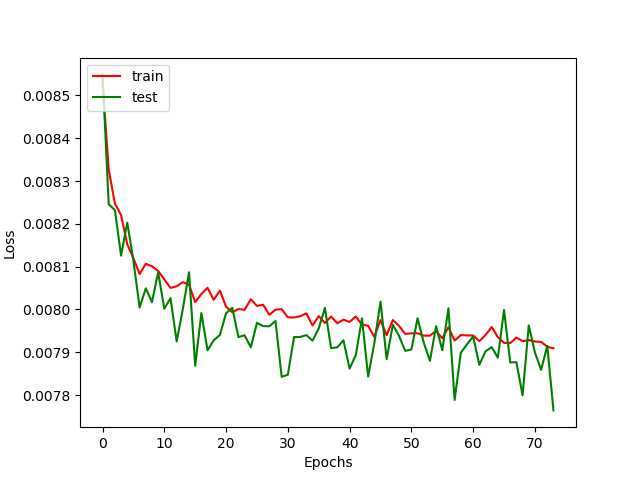
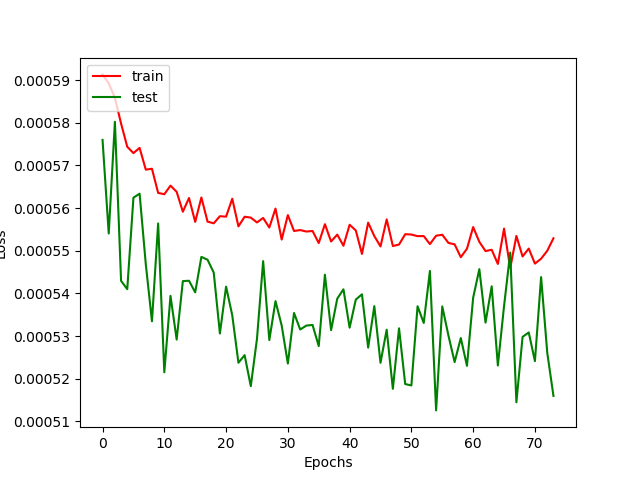
add new model to check

diff --git a/Part3/bilstmTrain.py b/Part3/bilstmTrain.py
@@ -4,18 +4,65 @@ import torch
 from torch import cuda, nn
 from torch.optim import Adam
 from torch.utils.data import DataLoader
-
+import torch.nn.functional as F
 # ToDO: change when submit
-from Part3.dataloader import PyTorchDataset, pad_collate
+from Part3.dataloader import PyTorchDataset, pad_collate, CharDataset
 from utils import to_print, PRINT, save_graph
 # from DL_3.Part3.dataloader import PyTorchDataset, pad_collate
 # from DL_3.utils import to_print, PRINT
 
-BATCH_SIZE = 50
+BATCH_SIZE = 1
 
 device = 'cuda' if cuda.is_available() else 'cpu'
 print("Graphical device test: {}".format(torch.cuda.is_available()))
 print("{} available".format(device))
+
+
+class biLSTMTagger_A(nn.Module):
+    """
+    biLSTM tagging model. representation: regular embedding
+    """
+    def __init__(self, vocab_size, embedding_dim, hidden_dim, tagset_size, device):
+        """
+        Initialize the model
+        """
+        super(biLSTMTagger_A, self).__init__()
+        # GPU device
+        self.device = device
+        # Dimensions
+        self.hidden_dim = hidden_dim
+        self.embedding_dim = embedding_dim
+        self.tagset_size = tagset_size
+        # Representation
+        self.embedding = nn.Embedding(vocab_size, embedding_dim)
+        # RNN - biLSTM with 2 layers
+        self.rnn = nn.LSTM(embedding_dim, hidden_dim, bidirectional=True, num_layers=2, dropout=0.5)
+        # Linear layer
+        self.hidden2tag = nn.Linear(hidden_dim * 2, tagset_size)
+        # Initialize hidden state in RNN
+        self.hidden = self.init_hidden()
+
+    def init_hidden(self):
+        """
+        We need to forget the RNN hidden state before dealing with new sequence
+        """
+        # The axes semantics are (num_layers*num_directions, minibatch_size, hidden_dim)
+        return (torch.zeros(4, 1, self.hidden_dim).to(self.device),
+                torch.zeros(4, 1, self.hidden_dim).to(self.device))
+
+    def forward(self, sentence):
+        """
+        The process of the model prediction
+        """
+        # Embed the sequences
+        embeds = self.embedding(sentence)
+        # Feed into the RNN
+        rnn_out, self.hidden = self.rnn(embeds.view(len(sentence),1,-1), self.hidden)
+        # Linear layer to tag space
+        output = self.hidden2tag(rnn_out.view(len(sentence), -1))
+        # Softmax
+        probs = F.softmax(output, dim=1)
+        return probs
 
 
 class BidirectionRnn(nn.Module):
@@ -68,28 +115,105 @@ class BidirectionRnn(nn.Module):
         output = self.hidden2out(rnn_out.view(sentence.shape[0], sentence.shape[1], -1))
         # Softmax
         probs = self.softmax(output)
-        probs = probs.view(sentence.shape[0], self.tagset_size, -1)
+        #probs = probs.view(sentence.shape[0], self.tagset_size, -1)
         return probs
+
+
+def ner_accuracy_calculation(prediction, labels, encoded_labels):
+    """
+        special accuracy function to ner.
+        the calculation is performed by ignoring the label 'o'
+
+        Args:
+        -----
+            prediction: the predictions to the data
+            labels: the correct labels of the data
+            encoded_labels: the labels encoded to numbers
+
+        Returns:
+        --------
+            accuracy: float, calculate the ner data accuracy.
+
+    """
+
+    mask = ~((prediction == encoded_labels['O']) & (labels == encoded_labels['O']))
+    ind = mask.nonzero().squeeze()
+    check_predictions, check_labels = prediction[ind], labels[ind]
+    accuracy = (check_predictions == check_labels).sum().item() / ind.shape[0]
+    return accuracy
+
+
+def evaluate(model, dataloader, criterion):
+    """
+        evaluate the model and check the test loss.
+        create a text file with the loss of all epochs.
+        Args:
+        -----
+            model: neural network with one hidden layer.
+            device: optional , run on GPU
+            dataset_train:
+            data_loader: instance of data loader obj
+
+        Returns:
+        --------
+            accuracy: float, calculate the data accuracy.
+
+    """
+
+    model.eval()
+    total = 0
+    accuracy = 0
+    total_loss = 0
+    for i, batch in enumerate(dataloader):
+        data, labels = batch
+        model.hidden = model.init_hidden()
+        # Set the data to run on GPU
+        data = data[0].to(device)
+        labels = labels[0].to(device)
+
+        # Set the gradients to zero
+        model.zero_grad()
+        probs = model(data)
+
+        # Calculate the loss
+        loss = criterion(probs, labels)
+        total_loss += loss.item()
+
+        prediction = torch.argmax(probs, dim=1)
+
+        if is_ner == 'ner':
+            acc = ner_accuracy_calculation(prediction, labels, PyTorchDataset.num_to_target)
+        else:
+            acc = (prediction == labels).sum().item()
+        total += labels.shape[0]
+        accuracy += acc
+
+    # Average accuracy and loss
+    accuracy /= total
+    total_loss /= total
+
+    with open('tag1_{}_loss'.format(is_ner), 'a+') as file:
+        file.write('{}\n'.format(total_loss))
+    return accuracy, total_loss
 
 
 def train(model, train_loader, val_loader, lr=0.01, epoch=10, is_ner=False):
     criterion = nn.CrossEntropyLoss()
     optimizer = Adam(model.parameters(), lr=lr)
     loss_list = []
-    passed_sen = 0
     for t in range(epoch):
+        passed_sen = 0
+        print("new epoch")
         for x_batch, y_batch in train_loader:
             model.train()
             passed_sen += int(x_batch.shape[0])
-            model.hidden = (model.hidden[0].detach(),
-                                  model.hidden[1].detach())
-            model.hidden = model.init_hidden(x_batch.shape[0])
+            model.hidden = model.init_hidden()
             x_batch = x_batch.to(device)
             y_batch = y_batch.to(device)
             # Makes predictions
-            yhat = model(x_batch)
+            yhat = model(x_batch[0])
             # Computes loss
-            loss = criterion(yhat, y_batch)
+            loss = criterion(yhat, y_batch[0])
             # Computes gradients
             loss.backward()
             # Updates parameters and zeroes gradients
@@ -98,45 +222,104 @@ def train(model, train_loader, val_loader, lr=0.01, epoch=10, is_ner=False):
             # Returns the loss
             loss_list.append(loss.item())
             if passed_sen % 500 == 0:
-                acc_dev, loss_dev = evaluate(val_loader, model, criterion, is_ner)
-                acc_tr, loss_tr = evaluate(train_loader, model, criterion, is_ner)
-                to_print[PRINT.TRAIN_ACC].append(acc_tr)
-                to_print[PRINT.TRAIN_LSS].append(loss_tr)
-                to_print[PRINT.TEST_ACC].append(acc_dev)
-                to_print[PRINT.TEST_LSS].append(loss_dev)
+                acc_dev, loss_dev = evaluate(model, val_loader, criterion)
+                acc_tr, loss_tr = evaluate(model, train_loader, criterion)
+                    # to_print[PRINT.TRAIN_ACC].append(acc_tr)
+                    # to_print[PRINT.TRAIN_LSS].append(loss_tr)
+                    # to_print[PRINT.TEST_ACC].append(acc_dev)
+                    # to_print[PRINT.TEST_LSS].append(loss_dev)
                 print(f"Epoch:{t+1} Train Acc:{acc_tr:.2f} Loss:{loss_tr:.8f} "
                       f"Acc Dev Acc: {acc_dev:.2f} Loss:{loss_dev:.8f} ")
 
     save_graph(to_print[PRINT.TRAIN_ACC], to_print[PRINT.TEST_ACC], 'Accuracy')
     save_graph(to_print[PRINT.TRAIN_LSS], to_print[PRINT.TEST_LSS], 'Loss')
     return model
+# def train(device, train, dev, parameters):
+#     # Adam optimizer
+#     optimizer = optim.Adam(model.parameters(), lr=parameters['lr'], weight_decay=parameters['wd'])
+#     print(sys.argv[1])
+#
+#     for epoch in range(parameters['epochs']):
+#         loss = train_epoch(dataloader_train, model, optimizer, device)
+#         losses.append(loss)
+#         accuracy = evaluation(model, device, dataset_train, dataloader_validation)
+#         accuracies.append(accuracy)
+#         print("epoch: {}, accuracy: {}".format(epoch + 1, accuracy))
+#     return model, dataset_train.encoded_words, dataset_train.encode_num_to_label, losses, accuracies
+#
+# def train_epoch(dataloader_train, model, optimizer, device):
+#     """
+#     train the model on part of the data in each iteration.
+#
+#     Args:
+#     -----
+#         dataloader_train: instance of data loader obj
+#         model: neural network with one hidden layer.
+#         optimizer: Adam optimizer
+#         device: optional , run on GPU
+#
+#     Returns:
+#     --------
+#         loss_average: float, calculate the average loss.
+#
+#     """
+#
+#     total_loss = 0
+#     criterion = nn.CrossEntropyLoss()
+#     for i, batch in enumerate(dataloader_train):
+#         data, labels = batch
+#
+#         data = data.to(device)
+#         labels = labels.to(device)
+#
+#         # Set the gradients to zero
+#         model.zero_grad()
+#         probs = model(data)
+#
+#         # Calculate the loss
+#         loss = F.cross_entropy(probs, labels)
+#         loss.backward()
+#         optimizer.step()
+#
+#         total_loss += loss.item()
+#     return total_loss / len(dataloader_train)
 
+# def evaluate(loader, model, criterion, is_ner):
+#     loss_list = []
+#     correct = 0
+#     total = 0
+#     model.eval()
+#     with torch.no_grad():
+#         for x_batch, y_batch in loader:
+#             x_batch = x_batch.to(device)
+#             y_batch = y_batch.to(device)
+#             model.hidden = model.init_hidden(x_batch.shape[0])
+#             outputs = model(x_batch)
+#             loss_list.append(criterion(outputs, y_batch).item())
+#             if is_ner:
+#                 for y_real, yhat in zip(y_batch.tolist(), outputs.argmax(axis=1).tolist()):
+#                     for i in range(len(y_real)):
+#                         if PyTorchDataset.num_to_target[y_real[i]] == 'O' and yhat[i] == y_real[i]:
+#                             continue
+#                         if yhat[i] == y_real[i]:
+#                             correct += 1
+#                         total += 1
+#             else:
+#                 total += y_batch.shape[0]*y_batch.shape[1]
+#                 correct += (outputs.argmax(axis=1) == y_batch).sum().item()
+#
+#     return 100*correct/total, sum(loss_list)/total
 
-def evaluate(loader, model, criterion, is_ner):
-    loss_list = []
-    correct = 0
-    total = 0
-    model.eval()
-    with torch.no_grad():
-        for x_batch, y_batch in loader:
-            x_batch = x_batch.to(device)
-            y_batch = y_batch.to(device)
-            model.hidden = model.init_hidden(x_batch.shape[0])
-            outputs = model(x_batch)
-            loss_list.append(criterion(outputs, y_batch).item())
-            if is_ner:
-                for y_real, yhat in zip(y_batch.tolist(), outputs.argmax(axis=1).tolist()):
-                    for i in range(len(y_real)):
-                        if PyTorchDataset.num_to_target[y_real[i]] == 'O' and yhat[i] == y_real[i]:
-                            continue
-                        if yhat[i] == y_real[i]:
-                            correct += 1
-                        total += 1
-            else:
-                total += y_batch.shape[0]*y_batch.shape[1]
-                correct += (outputs.argmax(axis=1) == y_batch).sum().item()
+variation = {
+    'a': {
+        'loader': PyTorchDataset,
+        'model': BidirectionRnn,
+    },
+    'b': {
+        'loader': CharDataset
+    }
+}
 
-    return 100*correct/total, sum(loss_list)/total
 
 
 if __name__ == '__main__':
@@ -145,18 +328,22 @@ if __name__ == '__main__':
     model_file = argv[3]
     is_ner = True if argv[4] == 'ner' else False
     test_file = argv[5]
+    dataset_func = variation[repr]['loader']
+    model = variation[repr]['model']
+
     # train_file = r'/home/vova/PycharmProjects/deep_exe3/DL_3/Part3/ner/train'
     # train_file = r'/home/vova/PycharmProjects/deep_exe3/DL_3/Part3/ner/train'
     # test_file = r'/home/vova/PycharmProjects/deep_exe3/DL_3/Part3/ner/dev'
-    train_dataset = PyTorchDataset(train_file)
-    test_dataset = PyTorchDataset(test_file)
+    train_dataset = dataset_func(train_file)
+    test_dataset = dataset_func(test_file)
     train_set = DataLoader(train_dataset, batch_size=BATCH_SIZE, shuffle=True, collate_fn=pad_collate)
     voc_size = len(PyTorchDataset.word_to_num)
     tag_size = len(PyTorchDataset.target_to_num)
-    bi_rnn = BidirectionRnn(vocab_size=voc_size,
-                            embedding_dim=30,
-                            hidden_dim=30,
-                            tagset_size=tag_size).to(device)
-    test_set = DataLoader(test_dataset, batch_size=BATCH_SIZE, shuffle=True, collate_fn=pad_collate)
-    train(bi_rnn, train_set, test_set, lr=0.01, epoch=5, is_ner=False)
+    # bi_rnn = model(vocab_size=voc_size,
+    #                embedding_dim=60,
+    #                hidden_dim=100,
+    #                tagset_size=tag_size).to(device)
+    bi_rnn = biLSTMTagger_A(vocab_size=voc_size, embedding_dim=50, hidden_dim=50, tagset_size=tag_size, device=device).to(device)
+    test_set = DataLoader(test_dataset, batch_size=1, shuffle=True, collate_fn=pad_collate)
+    train(bi_rnn, train_set, test_set, lr=0.1, epoch=5, is_ner=False)
 

diff --git a/Part3/dataloader.py b/Part3/dataloader.py
@@ -66,7 +66,7 @@ class PyTorchDataset(torch.utils.data.Dataset):
     @staticmethod
     def create_sentences(data, target, word_to_num, target_to_num):
         ind = list(np.where(data == '.')[0] + 1)
-        arr_per_sequences = np.split(data, ind)
+        arr_per_sequences = np.split(data, ind)[:-1]
         target_per_sequences = np.split(target, ind)
 
         sentences = [[word_to_num.get(word, word_to_num['UUUNNNKKK']) for word in seq] for seq in arr_per_sequences]
@@ -103,12 +103,12 @@ if __name__ == '__main__':
     # Must change
     #root = Path('DL_3/Part3/{}'.format(sys.argv[1]))
     train_file = sys.argv[1]
-    train_file = r'/home/vova/PycharmProjects/deep_exe3/DL_3/Part3/ner/train'
+    # train_file = r'/home/vova/PycharmProjects/deep_exe3/DL_3/Part3/ner/train'
     dataset = PyTorchDataset(train_file)
 
     dataloader_train = DataLoader(dataset, batch_size=50, shuffle=True, collate_fn=pad_collate)
 
-    # for i, batch in enumerate(dataloader_train):
-    #     data, labels = batch
-    #     print(data)
-    #     #print(labels.shape)
+    for i, batch in enumerate(dataloader_train):
+        data, labels = batch
+        # print(data)
+        print(data.shape)
